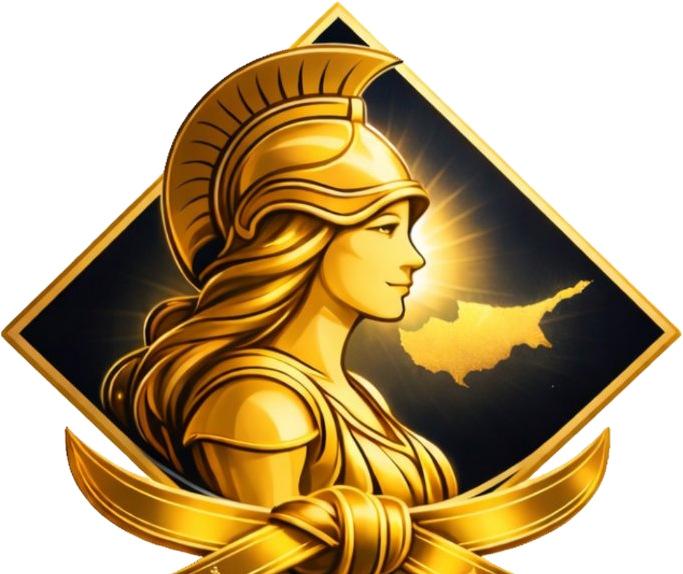
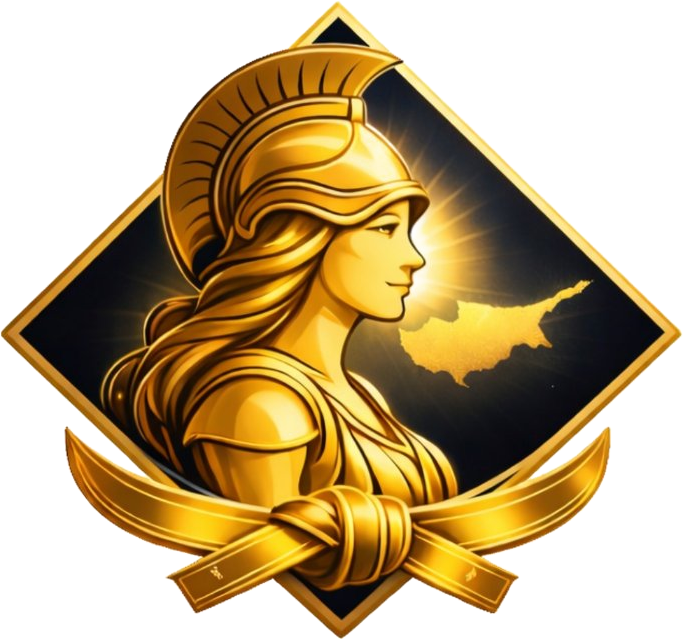
Whole emblem, soft-edged photos, serif nav, parallel waves
- Emblem crop now cuts at the gap above the wordmark, so the belt and
  the diamond's lower tip are no longer cut off.
- Inset and community photos fade into the page at every edge (like
  Eleftheria's portrait) instead of being cropped into circles.
- Side nav uses the italic serif from the quotes and mobile menu.
- Wave bands are offsets of one curve so the gold line never crosses
  them; translucent layers end under the solid fill, removing the
  straight hairline under each wave.
- Sections leave room for the next wave so buttons and text clear it.

Claude-Session: https://claude.ai/code/session_01HDxfHHSh4odMwGqc9SyBKH

diff --git a/src/assets/css/style.css b/src/assets/css/style.css
@@ -160,14 +160,15 @@ p { margin: 0 0 1.15em; }
 .sidenav__logo { display: block; width: 150px; margin-bottom: 26px; filter: drop-shadow(0 6px 18px rgba(30, 6, 10, 0.35)); }
 .sidenav__list { list-style: none; margin: 0; padding: 0; }
 .sidenav__list a {
-  display: inline-block; padding: 3px 0;
-  font-size: 12px; font-weight: 500; letter-spacing: 0.24em; text-transform: lowercase; text-decoration: none;
+  display: inline-block; padding: 1px 0;
+  font-family: var(--serif); font-style: italic; font-weight: 500;
+  font-size: 19px; line-height: 1.45; letter-spacing: 0.01em; text-decoration: none;
   color: var(--cream);
   text-shadow: 0 1px 10px rgba(30, 6, 10, 0.55);
   position: relative;
 }
 .sidenav__list a::after {
-  content: ""; position: absolute; left: 0; bottom: 2px; height: 1px; width: 100%;
+  content: ""; position: absolute; left: 0; bottom: 3px; height: 1px; width: 100%;
   background: var(--gold-2); transform: scaleX(0); transform-origin: left; transition: transform 0.4s var(--ease);
 }
 .sidenav__list a:hover::after, .sidenav__list a[aria-current="page"]::after { transform: scaleX(1); }
@@ -343,6 +344,8 @@ body.menu-open .overlay__list li:nth-child(5) a { transition-delay: 0.24s; }
   position: relative;
   background: var(--bg);
   padding: clamp(60px, 9vw, 120px) var(--gutter);
+  /* leave room for the next section's wave so it never runs into text or buttons */
+  padding-bottom: calc(var(--wave-h) + clamp(28px, 4vw, 56px));
   z-index: 2;
 }
 .section--dark {
@@ -424,19 +427,24 @@ body.menu-open .overlay__list li:nth-child(5) a { transition-delay: 0.24s; }
 .feature__quote .quote { max-width: 16em; margin: 0 auto; }
 .feature--dark .feature__quote .quote { color: var(--cream); }
 .feature--dark .feature__quote .quote em { color: var(--gold-3); }
-.feature__body { position: relative; z-index: 2; padding: 0 var(--gutter) clamp(70px, 10vw, 130px); margin-top: -8vh; }
+.feature__body { position: relative; z-index: 2; padding: 0 var(--gutter) calc(var(--wave-h) + clamp(28px, 4vw, 56px)); margin-top: -8vh; }
 .feature--dark .feature__body { color: var(--cream-2); }
 .feature--dark .text { color: rgba(246, 236, 226, 0.84); }
 .feature--dark .text strong { color: var(--gold-3); }
 .feature--dark .headline { color: var(--gold-3); }
 
-.inset-photo {
-  float: right; width: min(46%, 420px); margin: 0.4rem 0 1.6rem 2.4rem;
-  border-radius: 46% 54% 48% 52% / 60% 44% 56% 40%;
-  overflow: hidden; shape-outside: margin-box;
-  box-shadow: 0 30px 60px -30px rgba(30, 6, 10, 0.6);
+/* photos melt into the page colour at every edge, like Eleftheria's portrait */
+.inset-photo img, .split__media img {
+  -webkit-mask-image: linear-gradient(180deg, transparent 0%, #000 18%, #000 78%, transparent 100%), linear-gradient(90deg, transparent 0%, #000 16%, #000 84%, transparent 100%);
+  -webkit-mask-composite: source-in;
+  mask-image: linear-gradient(180deg, transparent 0%, #000 18%, #000 78%, transparent 100%), linear-gradient(90deg, transparent 0%, #000 16%, #000 84%, transparent 100%);
+  mask-composite: intersect;
 }
-.inset-photo img { width: 100%; aspect-ratio: 4 / 5; object-fit: cover; transform: scale(1.12); }
+.inset-photo {
+  float: right; width: min(46%, 440px); margin: 0 0 1rem 2rem;
+  shape-outside: margin-box;
+}
+.inset-photo img { display: block; width: 100%; aspect-ratio: 4 / 5; object-fit: cover; }
 
 .statement {
   text-align: center; margin: 3.4rem auto;
@@ -455,16 +463,10 @@ body.menu-open .overlay__list li:nth-child(5) a { transition-delay: 0.24s; }
 }
 .split--reverse .split__media { order: 2; }
 .split__media {
-  position: relative; overflow: hidden;
-  border-radius: 58% 42% 52% 48% / 46% 56% 44% 54%;
+  position: relative; margin: 0;
   aspect-ratio: 4 / 5;
-  box-shadow: 0 40px 80px -40px rgba(62, 12, 21, 0.55);
 }
-.split__media img { position: absolute; inset: -10% 0; width: 100%; height: 120%; object-fit: cover; will-change: transform; }
-.split__media::after {
-  content: ""; position: absolute; inset: 0; border-radius: inherit;
-  box-shadow: inset 0 0 0 1px rgba(212, 173, 107, 0.6);
-}
+.split__media img { position: absolute; inset: 0; width: 100%; height: 100%; object-fit: cover; will-change: transform; }
 .card-num {
   font-family: var(--display); font-size: 13px; letter-spacing: 0.3em; color: var(--gold);
   display: flex; align-items: center; gap: 0.9rem; margin-bottom: 1rem;
@@ -615,7 +617,7 @@ body.menu-open .overlay__list li:nth-child(5) a { transition-delay: 0.24s; }
   .split__media { width: min(100%, 460px); margin: 0 auto; }
   .mascot { position: relative; top: 0; }
   .mascot img { width: min(70%, 260px); }
-  .inset-photo { float: none; width: 100%; margin: 0 0 1.6rem; border-radius: 40% 60% 46% 54% / 30% 30% 70% 70%; }
+  .inset-photo { float: none; width: 100%; margin: 0 0 1.6rem; }
   .inset-photo img { aspect-ratio: 4 / 3; }
   .footer__grid { grid-template-columns: 1fr; gap: 2.4rem; }
   .form__grid { grid-template-columns: 1fr; }

diff --git a/src/partials/wave-svg.html b/src/partials/wave-svg.html
@@ -1,1 +1,1 @@
-<svg viewBox="0 0 1440 170" preserveAspectRatio="none" aria-hidden="true" focusable="false"><path class="wave__back" d="M0,64 C220,6 470,0 720,52 C980,106 1200,118 1440,40 L1440,170 L0,170 Z"/><path class="wave__mid" d="M0,108 C250,40 520,30 760,84 C1010,140 1230,138 1440,78 L1440,170 L0,170 Z"/><path class="wave__fill" d="M0,138 C270,80 540,70 790,116 C1040,160 1250,158 1440,112 L1440,170 L0,170 Z"/><path class="wave__line" d="M0,96 C260,26 530,16 770,72 C1010,128 1230,126 1440,62"/></svg>
+<svg viewBox="0 0 1440 170" preserveAspectRatio="none" aria-hidden="true" focusable="false"><path class="wave__back" d="M0,80 C260,16 530,8 770,60 C1010,106 1230,104 1440,50 L1440,160 L0,160 Z"/><path class="wave__mid" d="M0,110 C260,46 530,38 770,90 C1010,136 1230,134 1440,80 L1440,160 L0,160 Z"/><path class="wave__fill" d="M0,138 C260,74 530,66 770,118 C1010,164 1230,162 1440,108 L1440,180 L0,180 Z"/><path class="wave__line" d="M0,96 C260,32 530,24 770,76 C1010,122 1230,120 1440,66"/></svg>

diff --git a/src/partials/eleftheria.html b/src/partials/eleftheria.html
@@ -5,7 +5,7 @@
       <img src="assets/img/eleftheria.jpg" alt="Eleftheria Christodoulou in her black belt" width="864" height="1566" loading="lazy">
     </figure>
     <div class="founder__words">
-      <img class="founder__emblem" src="assets/img/emblem.png" alt="" width="683" height="574" loading="lazy" data-reveal>
+      <img class="founder__emblem" src="assets/img/emblem.png" alt="" width="683" height="639" loading="lazy" data-reveal>
       <p class="eyebrow" data-reveal>Founder of Golden</p>
       <h2 class="title" id="eleftheria-title" data-reveal>Eleftheria <br>Christodoulou</h2>
       <ul class="achievements" data-reveal>

diff --git a/src/partials/cta.html b/src/partials/cta.html
@@ -1,7 +1,7 @@
 <section class="section cta" aria-labelledby="cta-title">
   <div class="wave wave--top"><!-- include: wave-svg --></div>
   <div class="wrap wrap--narrow">
-    <img class="cta__emblem" src="assets/img/emblem.png" alt="" width="683" height="574" loading="lazy" data-reveal="zoom">
+    <img class="cta__emblem" src="assets/img/emblem.png" alt="" width="683" height="639" loading="lazy" data-reveal="zoom">
     <h2 class="quote" id="cta-title" data-reveal>Apply. Be selected. <br><em>Become part of Golden.</em></h2>
     <div class="btn-row" data-reveal>
       <a class="btn btn--light" href="join.html">How do I join</a>

diff --git a/src/pages/apply.html b/src/pages/apply.html
@@ -97,7 +97,7 @@
     <section class="section cta" aria-label="That is Golden">
       <div class="wave wave--top"><!-- include: wave-svg --></div>
       <div class="wrap wrap--narrow">
-        <img class="cta__emblem" src="assets/img/emblem.png" alt="" width="683" height="574" loading="lazy" data-reveal="zoom">
+        <img class="cta__emblem" src="assets/img/emblem.png" alt="" width="683" height="639" loading="lazy" data-reveal="zoom">
         <p class="quote" data-reveal>Apply. Be selected. Become part of Golden.</p>
         <p class="tagline" data-reveal>That is Golden.</p>
       </div>

diff --git a/src/partials/nav.html b/src/partials/nav.html
@@ -17,7 +17,7 @@
 <button class="menu-btn" type="button" aria-controls="overlay-menu" aria-expanded="false" aria-label="Open menu"><span></span></button>
 <div class="overlay" id="overlay-menu" aria-hidden="true">
   <div class="overlay__inner">
-    <img src="assets/img/emblem.png" alt="" width="683" height="574">
+    <img src="assets/img/emblem.png" alt="" width="683" height="639">
     <ul class="overlay__list">
       <li><a href="index.html" data-nav="home">Home</a></li>
       <li><a href="eleftheria.html" data-nav="eleftheria">Eleftheria</a></li>

diff --git a/tools/process_images.py b/tools/process_images.py
@@ -104,7 +104,10 @@ def process_logo():
     rgba = rgba.crop(bbox)
     rgba.save(OUT / "logo.png", optimize=True)
     # the emblem only (diamond + ribbon), without the wordmark
-    emblem_h = int(rgba.height * 0.70)
+    # cut at the first transparent row below the emblem so the ribbon stays whole
+    solid = rgba.getchannel("A").point(lambda v: 255 if v > 40 else 0)
+    emblem_h = next(y for y in range(int(rgba.height * 0.6), rgba.height)
+                    if solid.crop((0, y, rgba.width, y + 1)).getbbox() is None)
     emblem = rgba.crop((0, 0, rgba.width, emblem_h))
     emblem = emblem.crop(emblem.getchannel("A").point(lambda v: 255 if v > 40 else 0).getbbox())
     emblem.save(OUT / "emblem.png", optimize=True)
